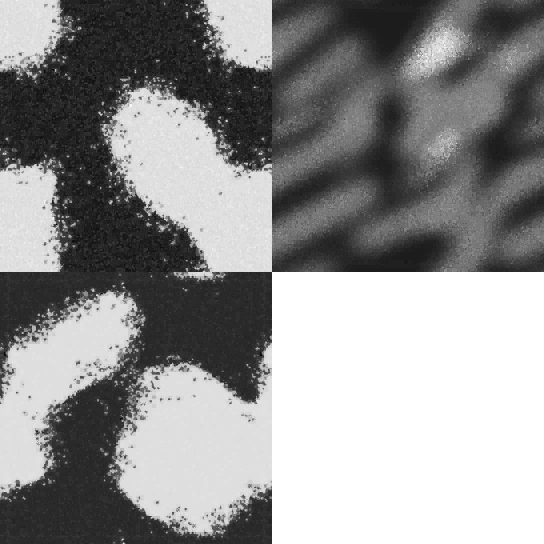
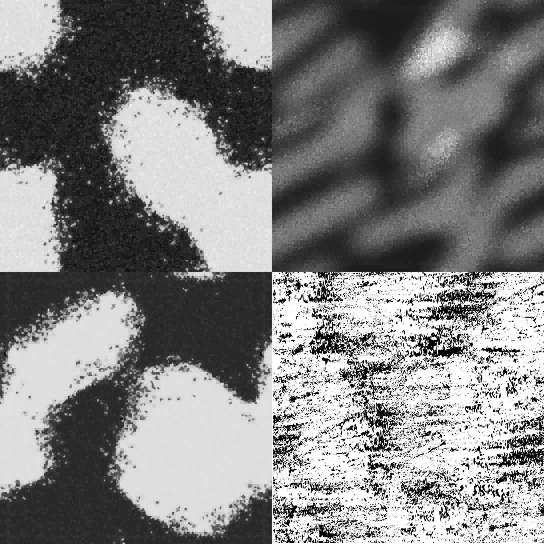
update sphere texture

Changed region(s): [[0.5, 0.5, 1.0, 1.0]]

diff --git a/src/libs/generateColorPair.ts b/src/libs/generateColorPair.ts
@@ -20,80 +20,74 @@ function random(seed: number) {
   };
 }
 
+function clamp(value: number, min: number, max: number) {
+  return Math.min(Math.max(value, min), max);
+}
+
 /**
- * More natural material colors.
- * Avoids pure neon colors.
+ * Hand-curated analogous pairs that blend beautifully through a texture.
+ *
+ * Rules:
+ * - Hues are close (20-50 apart) so the mid-mix never goes muddy
+ * - No dark anchors: no deep green (90-150), no dark blue (210-260),
+ *   no dark violet (260-290)
+ * - All pairs feel watery / stylized / light
+ *
+ * Format: [hueA, hueB] in degrees
  */
-const COLOR_ANCHORS = [
-  0, // red
-  25, // orange
-  45, // yellow
-  90, // green
-  150, // turquoise
-  190, // cyan
-  220, // blue
-  260, // violet
-  300, // purple
-  330, // pink
+const COLOR_PAIRS: [number, number][] = [
+  [355, 20], // blush -> peach
+  [20, 45], // peach -> warm yellow
+  [330, 355], // bubblegum pink -> blush
+  [300, 330], // soft lilac -> bubblegum pink
+  [170, 195], // mint -> sky cyan
+  [185, 210], // sky cyan -> ice blue
+  [210, 240], // ice blue -> periwinkle (both stay light)
+  [0, 330], // coral -> pink
+  [45, 20], // yellow -> peach
+  [195, 170], // sky -> mint
+  [240, 270], // periwinkle -> soft violet (light versions)
+  [270, 300], // soft violet -> lilac
+  [10, 340], // warm coral -> rose
+  [340, 310], // rose -> orchid
 ];
 
-function clamp(v: number, min: number, max: number) {
-  return Math.min(max, Math.max(min, v));
-}
-
 /**
- * Similar idea to previous code:
- * create a second color by shifting hue.
- */
-function createHarmony(hue: number, rand: () => number) {
-  const shift = (rand() < 0.5 ? -1 : 1) * (30 + rand() * 70);
-
-  return (hue + shift + 360) % 360;
-}
-
-/**
- * Generates random material pair.
+ * Generates a harmonious, watery-stylized color pair for sphere materials.
  *
- * Example:
+ * Both colors are analogous (close hues) so mixing them through a
+ * diffuse texture always produces a smooth, natural blend — never muddy.
  *
- * purple ---> mint
- * orange ---> pink
- * blue ---> violet
- *
+ * Palette feel: candy mint, soft coral, icy periwinkle, blush pink,
+ * warm peach, dreamy lilac — bright and airy, never dark.
  */
 export function generateColorPair(text: string, vibrant = 0.8, seed = 0) {
   const rand = random(hashString(text) ^ Math.imul(seed + 1, 2654435761));
 
-  // Base hue
-  const base = COLOR_ANCHORS[Math.floor(rand() * COLOR_ANCHORS.length)];
+  // Pick a curated pair
+  const pair = COLOR_PAIRS[Math.floor(rand() * COLOR_PAIRS.length)];
 
-  // Add organic variation
-  const hue1 = (base + (rand() - 0.5) * 40 + 360) % 360;
-
-  // Harmonized second color
-  const hue2 = createHarmony(hue1, rand);
+  // Small organic variation (+-12 deg) so same-pair spheres still differ
+  const hue1 = (pair[0] + (rand() - 0.5) * 24 + 360) % 360;
+  const hue2 = (pair[1] + (rand() - 0.5) * 24 + 360) % 360;
 
   /**
-   * Saturation
+   * Saturation: 75-90 %
    *
-   * low:
-   * pastel plastic
-   *
-   * high:
-   * candy color
+   * High enough to look vivid and stylized.
+   * Not at 100 % to keep it feeling soft/watery rather than neon.
    */
-  const saturation1 = clamp(35 + vibrant * 45 + rand() * 15, 25, 90);
-
-  const saturation2 = clamp(saturation1 + (rand() - 0.5) * 20, 25, 90);
+  const saturation1 = clamp(75 + vibrant * 15 + rand() * 5, 75, 90);
+  const saturation2 = clamp(saturation1 + (rand() - 0.5) * 10, 72, 90);
 
   /**
-   * Lightness
+   * Lightness: 60-70 %
    *
-   * Keep material bright.
+   * Bright and airy without washing out.
+   * The shader saturateColor() pushes it the rest of the way.
    */
-  const lightness1 = clamp(65 - vibrant * 10 + (rand() - 0.5) * 8, 50, 75);
-
-  const lightness2 = clamp(lightness1 + (rand() - 0.5) * 12, 50, 75);
+  const lightness1 = clamp(63 + vibrant * 5 + (rand() - 0.5) * 6, 60, 70);
+  const lightness2 = clamp(lightness1 + (rand() - 0.5) * 6, 60, 70);
 
   const colorA = new THREE.Color().setHSL(
     hue1 / 360,

diff --git a/src/components/General/CustomSphere.tsx b/src/components/General/CustomSphere.tsx
@@ -581,14 +581,14 @@ const SphereModel = ({
     D: new THREE.Vector2(0.5, 0.0), // bottom-right
   };
 
-  let seed = 2; // change it to (3) only if and only if things turn out good
+  let seed = 4; // change it to (3) only if and only if things turn out good
 
   if (location.pathname === "/nfc") {
     // seed = 230;
     seed = 22;
   }
 
-  const [colorA, colorB] = generateColorPair(`${email} ${type}`, 0.9, seed);
+  const [colorA, colorB] = generateColorPair(`${email} ${type}`, 1, seed);
 
   const uniforms = useRef({
     uDiffuseTexture: { value: diffuseTexture },
@@ -669,6 +669,12 @@ const fragmentShader = `
   uniform vec3 uColorA;
   uniform vec3 uColorB;
 
+  // Boosts colour saturation: factor > 1 = more vivid, 0 = grayscale
+  vec3 saturateColor(vec3 c, float factor) {
+    float lum = dot(c, vec3(0.2126, 0.7152, 0.0722));
+    return mix(vec3(lum), c, factor);
+  }
+
   vec3 applyNormalMap(vec3 geomNormal, vec3 normColor, vec2 uv, vec3 viewPos) {
     vec3 mapN = normColor * 2.0 - 1.0;
 
@@ -707,8 +713,11 @@ const fragmentShader = `
       diffuseSample.r
     );
 
+    // Boost saturation so the diffuse texture averaging
+    // doesn't wash the hue out to gray.
+    color = saturateColor(color, 2.5);
 
-    csm_DiffuseColor = vec4(vec3(color), 1.0);
+    csm_DiffuseColor = vec4(color, 1.0);
 
     // normal atlas UV (2x2 grid, scale by 0.5)
     vec2 normalUV = fract(vUv) + uNormalType;

diff --git a/src/libs/config/pageSphere.ts b/src/libs/config/pageSphere.ts
@@ -107,7 +107,7 @@ export const pageSphere: Record<string, Partial<SphereConfig> | undefined> = {
   Detail: {
     ...defaultSphereConfig,
     positionX: -6.3,
-    positionY: -3,
+    positionY: -3.5,
     spreadY: 1.15,
     sphereCount: 6,
     sphereRadius: 1,
@@ -116,7 +116,7 @@ export const pageSphere: Record<string, Partial<SphereConfig> | undefined> = {
   Detail2: {
     ...defaultSphereConfig,
     positionX: 6.3,
-    positionY: -3,
+    positionY: -3.5,
     spreadY: 1.1,
     sphereCount: 6,
     sphereRadius: 1,

diff --git a/src/components/NfcPage/index.tsx b/src/components/NfcPage/index.tsx
@@ -30,8 +30,8 @@ const index = () => {
         {show && (
           <>
             <group>
-              <GroupOfSphere configKey="Nfc1" configOffset={5} />
-              <GroupOfSphere configKey="Nfc2" configOffset={15} />
+              <GroupOfSphere configKey="Nfc1" configOffset={14} />
+              <GroupOfSphere configKey="Nfc2" configOffset={10} />
 
               {/* <GroupOfSphere configKey="Nfc" configOffset={0} /> */}
             </group>

diff --git a/src/components/TicketDetail/index.tsx b/src/components/TicketDetail/index.tsx
@@ -19,7 +19,7 @@ const TicketDetail = () => {
       {show && (
         <group>
           <GroupOfSphere configKey="Detail" configOffset={0} />
-          <GroupOfSphere configKey="Detail2" configOffset={3} />
+          <GroupOfSphere configKey="Detail2" configOffset={9} />
         </group>
       )}
     </Suspense>
